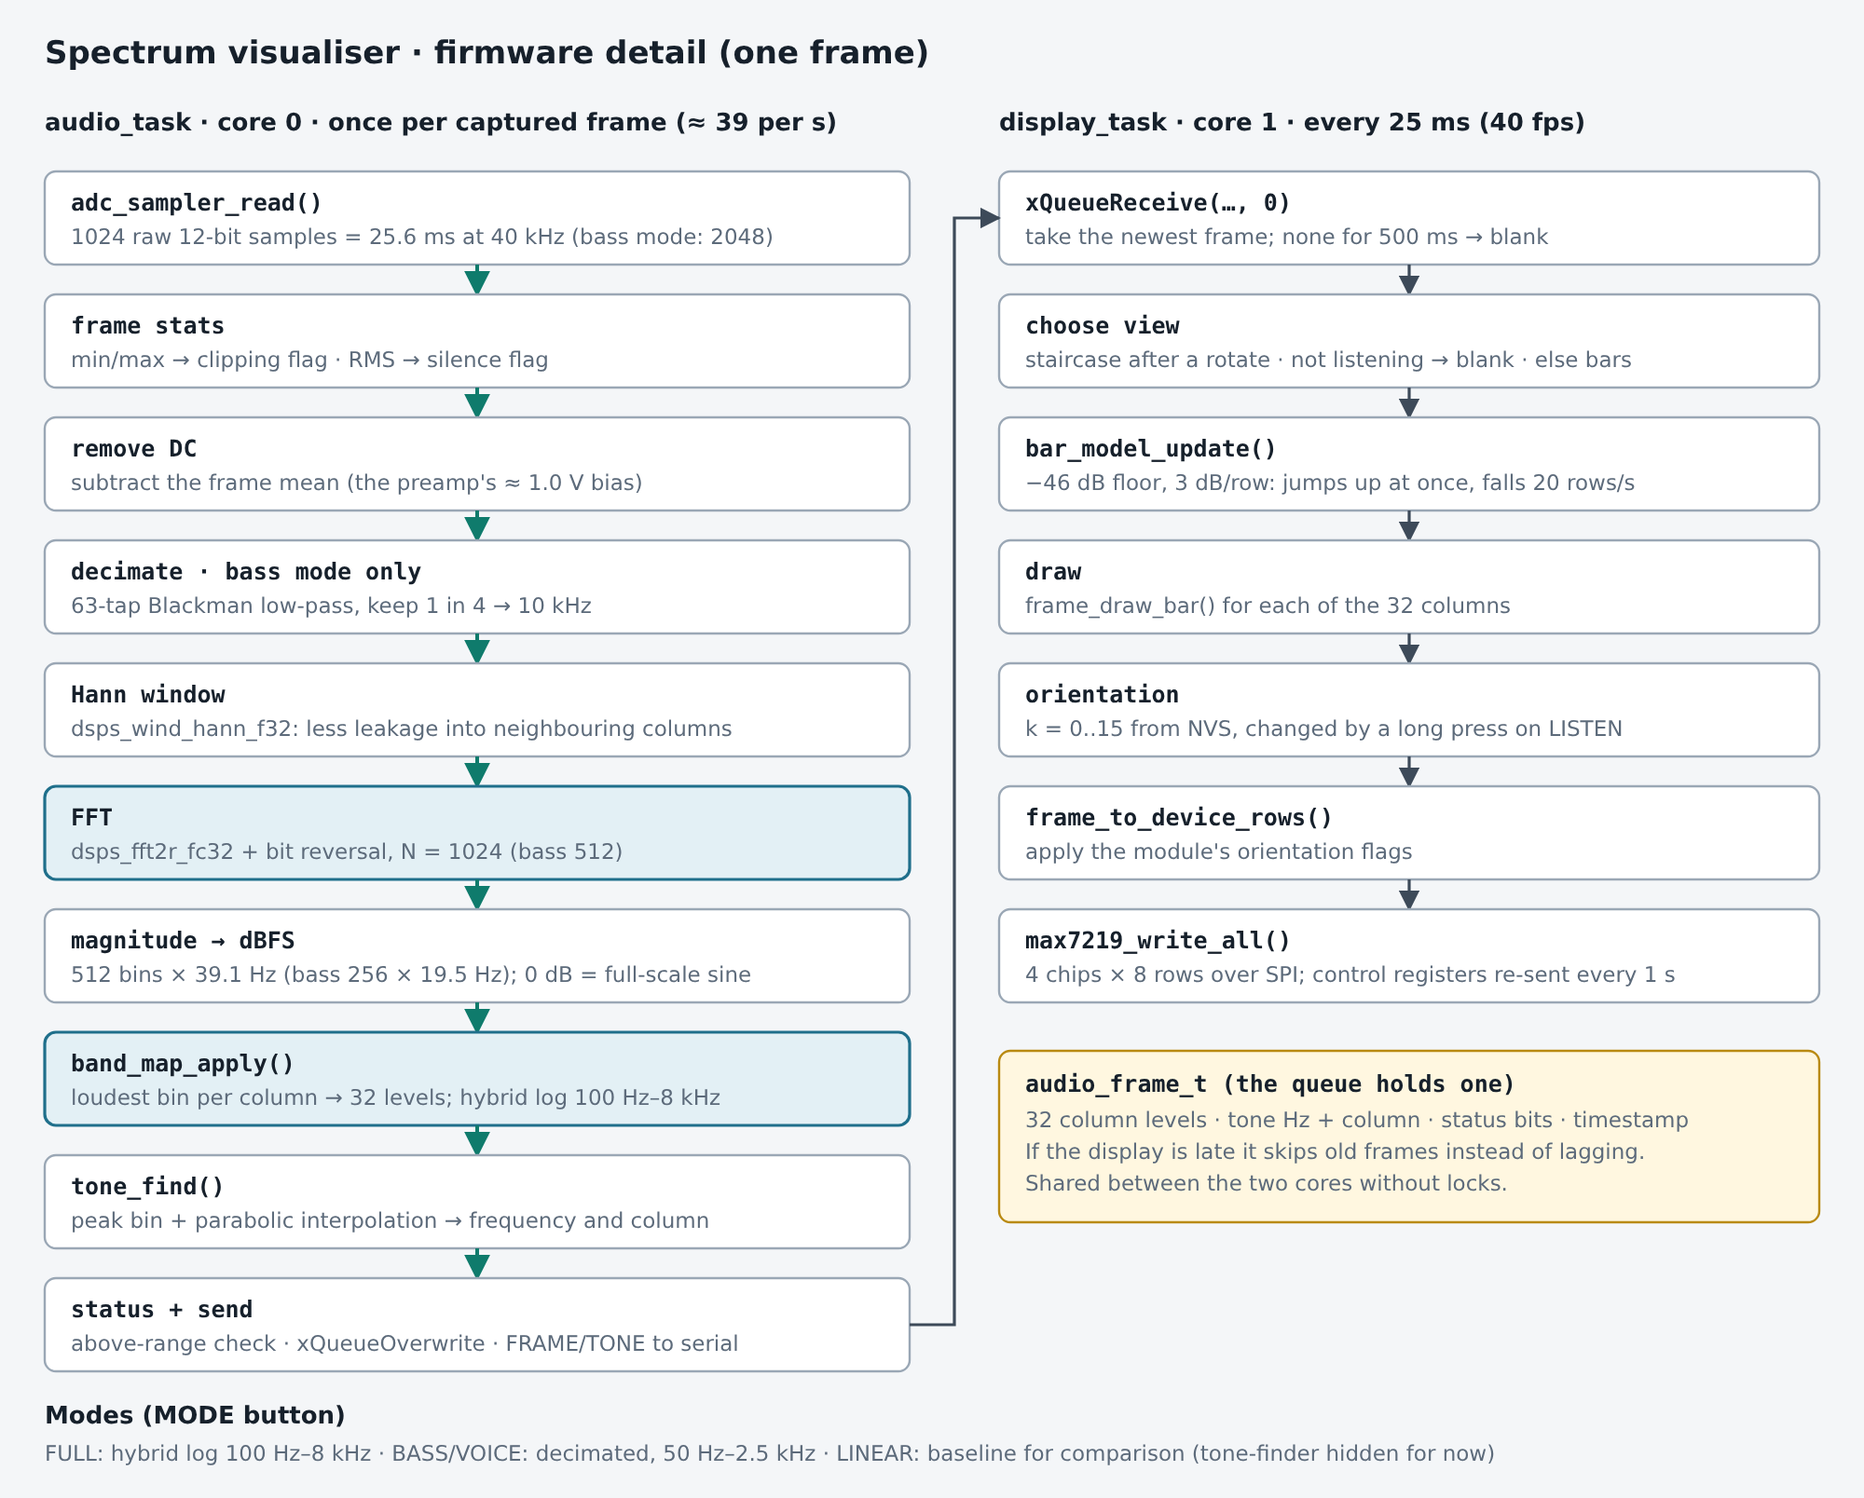
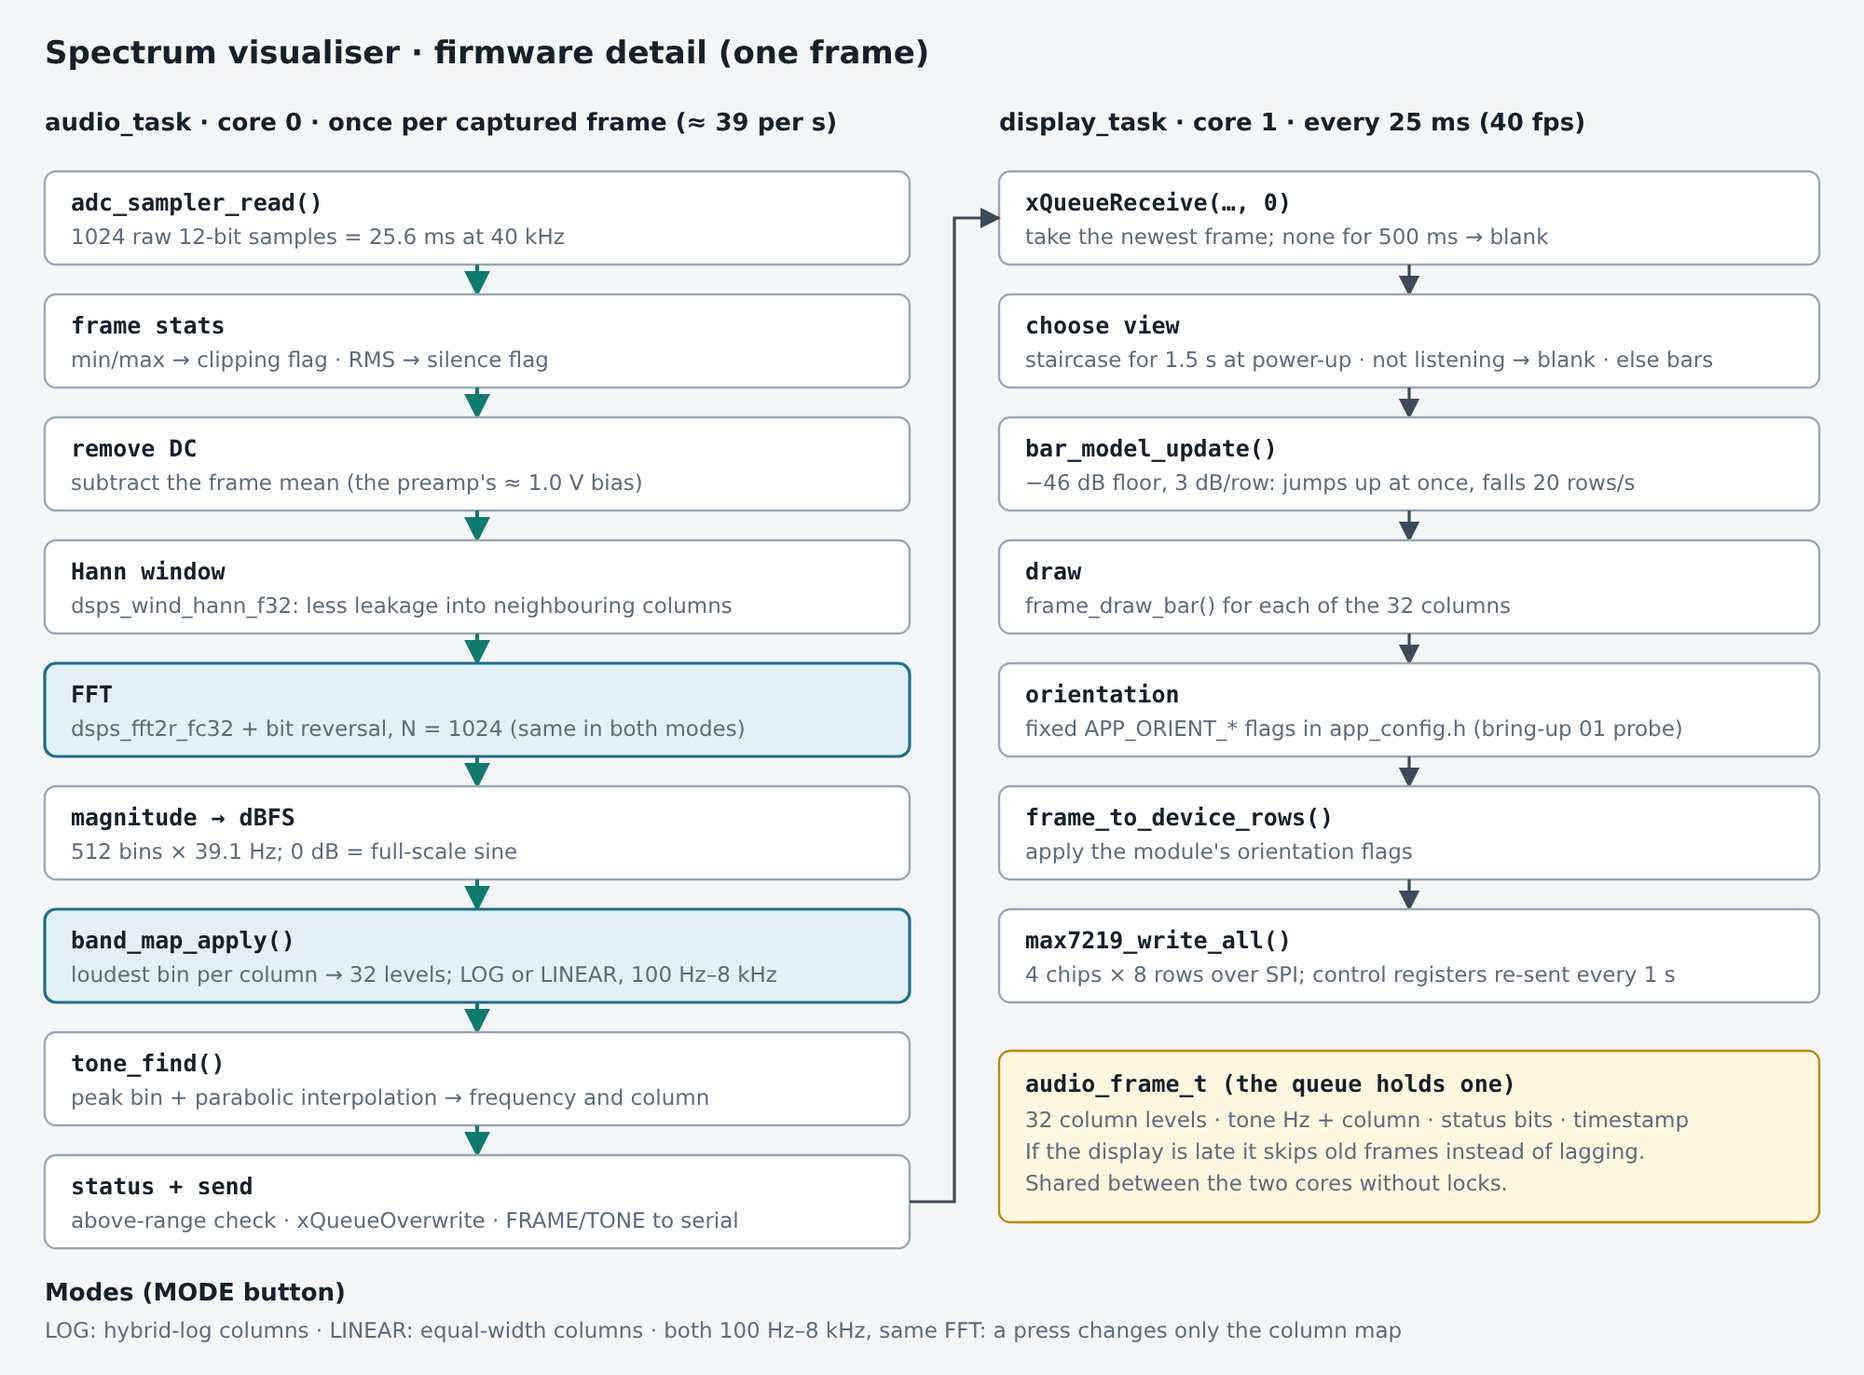
Docs and diagrams: two modes, fixed orientation, new button map
Brings the evidence trail in line with the firmware change (spec T7):
- PLAN decision log: rows for the probe, the orientation result with its
  evidence files, no NVS orientation, LOG/LINEAR, button map, NVS
  rename, removed modes and the boot staircase.
- LAB_TESTS: Session B controls paragraph, A1 probe result, B1/B3/B4/B5
  checklists and the values-to-measure table. Notes that the 30/10
  quiet-room log behind APP_FLOOR_DB was taken in bass/voice mode with
  the old NPN preamp, so B1 has to be redone.
- README controls, CLAUDE.md hardware note, CONTEXT log/progress.
- Diagrams: input lane (3 actions, request labels), display lane
  ("apply new brightness", fixed orientation), mode change only
  rebuilds the column map, fw-detail without the decimation step,
  button text in the wiring diagram. Re-rendered with Playwright at
  scale 2; PNGs whose SVG did not change were left as they were.

diff --git a/docs/diagrams/gen_diagrams.py b/docs/diagrams/gen_diagrams.py
@@ -191,8 +191,8 @@ def circuit():
     for y in (130, 170, 230, 270, 310):
         b.append(dot(640, y)); b.append(dot(780, y))
     # --- buttons
-    for y, name, desc in [(400, "SW1 · MODE", "short: mode · long: brightness"),
-                          (450, "SW2 · LISTEN", "stops / restarts sampling")]:
+    for y, name, desc in [(400, "SW1 · MODE", "short: log/linear · long: brightness"),
+                          (450, "SW2 · LISTEN", "short: stops / restarts sampling")]:
         b.append(L(640, y, 700, y, "w w-ink2"))
         b.append(dot(640, y))
         b.append(f'<circle cx="702" cy="{y}" r="2.5" class="pin"/>')
@@ -355,23 +355,22 @@ def fw_high():
 def fw_low():
     b = []
     audio = [
-        ("adc_sampler_read()", "1024 raw 12-bit samples = 25.6 ms at 40 kHz (bass mode: 2048)"),
+        ("adc_sampler_read()", "1024 raw 12-bit samples = 25.6 ms at 40 kHz"),
         ("frame stats", "min/max → clipping flag · RMS → silence flag"),
         ("remove DC", "subtract the frame mean (the preamp's ≈ 1.0 V bias)"),
-        ("decimate · bass mode only", "63-tap Blackman low-pass, keep 1 in 4 → 10 kHz"),
         ("Hann window", "dsps_wind_hann_f32: less leakage into neighbouring columns"),
-        ("FFT", "dsps_fft2r_fc32 + bit reversal, N = 1024 (bass 512)"),
-        ("magnitude → dBFS", "512 bins × 39.1 Hz (bass 256 × 19.5 Hz); 0 dB = full-scale sine"),
-        ("band_map_apply()", "loudest bin per column → 32 levels; hybrid log 100 Hz–8 kHz"),
+        ("FFT", "dsps_fft2r_fc32 + bit reversal, N = 1024 (same in both modes)"),
+        ("magnitude → dBFS", "512 bins × 39.1 Hz; 0 dB = full-scale sine"),
+        ("band_map_apply()", "loudest bin per column → 32 levels; LOG or LINEAR, 100 Hz–8 kHz"),
         ("tone_find()", "peak bin + parabolic interpolation → frequency and column"),
         ("status + send", "above-range check · xQueueOverwrite · FRAME/TONE to serial"),
     ]
     disp = [
         ("xQueueReceive(…, 0)", "take the newest frame; none for 500 ms → blank"),
-        ("choose view", "staircase after a rotate · not listening → blank · else bars"),
+        ("choose view", "staircase for 1.5 s at power-up · not listening → blank · else bars"),
         ("bar_model_update()", "−46 dB floor, 3 dB/row: jumps up at once, falls 20 rows/s"),
         ("draw", "frame_draw_bar() for each of the 32 columns"),
-        ("orientation", "k = 0..15 from NVS, changed by a long press on LISTEN"),
+        ("orientation", "fixed APP_ORIENT_* flags in app_config.h (bring-up 01 probe)"),
         ("frame_to_device_rows()", "apply the module's orientation flags"),
         ("max7219_write_all()", "4 chips × 8 rows over SPI; control registers re-sent every 1 s"),
     ]
@@ -391,7 +390,7 @@ def fw_low():
                            "sig" if x < 500 else "ink"))
         return top + (len(steps) - 1) * (h + gap)
 
-    last_a = column(24, 464, audio, acc_idx=(5, 7))
+    last_a = column(24, 464, audio, acc_idx=(4, 6))
     column(536, 440, disp)
     # queue connector: audio last -> display first
     ya = last_a + h / 2
@@ -403,9 +402,9 @@ def fw_low():
     b.append(T(550, yq + 41, "32 column levels · tone Hz + column · status bits · timestamp", "ts"))
     b.append(T(550, yq + 58, "If the display is late it skips old frames instead of lagging.", "ts"))
     b.append(T(550, yq + 75, "Shared between the two cores without locks.", "ts"))
-    ym = top + 10 * (h + gap) + 12
+    ym = top + 9 * (h + gap) + 12
     b.append(T(24, ym, "Modes (MODE button)", "tb2"))
-    b.append(T(24, ym + 20, "FULL: hybrid log 100 Hz–8 kHz  ·  BASS/VOICE: decimated, 50 Hz–2.5 kHz  ·  LINEAR: baseline for comparison  (tone-finder hidden for now)", "ts"))
+    b.append(T(24, ym + 20, "LOG: hybrid-log columns  ·  LINEAR: equal-width columns  ·  both 100 Hz–8 kHz, same FFT: a press changes only the column map", "ts"))
     return svg(1000, ym + 40, "Spectrum visualiser · firmware detail (one frame)", "".join(b))
 
 # ---------------------------------------------------------------- 1b. LM358 preamp schematics
@@ -664,7 +663,7 @@ def fw_flow():
     b.append(L(M, 310, M, 338, "w w-ink2", "ink")); b.append(dot(M, 326))
     fc_dec(b, M, 366, 160, 56, ["Mode", "changed?"])
     b.append(L(M + 80, 366, S - 52, 366, "w w-ink2", "ink")); b.append(T(M + 90, 359, "Yes", "lbl"))
-    fc_proc(b, S, 346, 104, 40, ["Set FFT size", "+ column map"])
+    fc_proc(b, S, 346, 104, 40, ["Rebuild the", "column map"])
     b.append(A(f"M{S} 386V414H{M+6}")); b.append(L(M, 394, M, 414, "w w-ink2")); b.append(T(M + 6, 408, "No", "lbl"))
     b.append(dot(M, 414)); b.append(L(M, 414, M, 426, "w w-ink2", "ink"))
     fc_dec(b, M, 454, 160, 56, ["Listening?"])
@@ -690,7 +689,7 @@ def fw_flow():
     M, S = 720, 902
     fc_proc(b, M, 270, 230, 40, ["Start SPI2 + 4 × MAX7219", "1 MHz, brightness from NVS"])
     b.append(L(M, 310, M, 346, "w w-ink2", "ink")); b.append(dot(M, 326))
-    fc_proc(b, M, 346, 230, 48, ["Wait for the 25 ms tick", "apply new brightness / rotation"])
+    fc_proc(b, M, 346, 230, 48, ["Wait for the 25 ms tick", "apply new brightness"])
     b.append(L(M, 394, M, 412, "w w-ink2", "ink"))
     fc_dec(b, M, 440, 160, 56, ["New frame", "in queue?"])
     b.append(L(M + 80, 440, S - 52, 440, "w w-ink2", "ink")); b.append(T(M + 90, 433, "No", "lbl"))
@@ -699,7 +698,7 @@ def fw_flow():
     b.append(dot(M, 494)); b.append(L(M, 494, M, 514, "w w-ink2", "ink"))
     fc_proc(b, M, 514, 230, 48, ["Bar rows = (dB − floor) ÷ 3 dB", "jump up at once, fall 20 rows/s"])
     b.append(L(M, 562, M, 582, "w w-ink2", "ink"))
-    fc_proc(b, M, 582, 230, 40, ["Draw 32 bars", "then apply the rotation"])
+    fc_proc(b, M, 582, 230, 40, ["Draw 32 bars", "then apply the fixed orientation"])
     b.append(L(M, 622, M, 642, "w w-ink2", "ink"))
     fc_io(b, M, 642, 230, 40, ["Send 8 rows × 4 chips", "over SPI"])
     b.append(A(f"M{M} 682V700H966V326H{M+6}"))
@@ -716,10 +715,10 @@ def fw_flow():
     fc_dec(b, 470, cy, 120, 60, ["Pressed?"])
     b.append(L(530, cy, 560, cy, "w w-ink2", "ink")); b.append(T(536, cy - 7, "Yes", "lbl"))
     b.append(R(560, cy - 52, 240, 104, "bx", 4))
-    acts = [("MODE short", "next mode"), ("MODE long", "next brightness"),
-            ("LISTEN short", "stop / start"), ("LISTEN long", "rotate display")]
+    acts = [("MODE short", "LOG ↔ LINEAR"), ("MODE long", "next brightness"),
+            ("LISTEN short", "stop / start")]
     for i, (k, v) in enumerate(acts):
-        yy = cy - 28 + i * 20
+        yy = cy - 18 + i * 20   # 3 rows, centred in the box
         b.append(T(574, yy, k, "tm")); b.append(T(676, yy, "→ " + v, "ts"))
     b.append(L(800, cy, 822, cy, "w w-ink2", "ink"))
     fc_proc(b, 890, cy - 22, 136, 44, ["Save to NVS", "kept after power-off"])
@@ -729,7 +728,7 @@ def fw_flow():
     b.append(P(f"M610 {cy-52}V786H250V776", "w w-ink2 dash", "ink"))
     b.append(T(618, 820, "mode, listening", "ts"))
     b.append(P(f"M760 {cy-52}V716", "w w-ink2 dash", "ink"))
-    b.append(T(768, 760, "brightness, rotation", "ts"))
+    b.append(T(768, 760, "brightness", "ts"))
     # legend
     ly = 1000
     b.append(T(24, ly, "Shapes:", "tb2"))

diff --git a/docs/CONTEXT.md b/docs/CONTEXT.md
@@ -49,13 +49,14 @@ Kept by Claude so any new chat or Claude Code session can pick up where we left 
 - [x] Repo skeleton: headers, CMake files, empty `.c` stubs, bring-up projects, host-test stubs (29/10). Claude built it with ESP-IDF v6.0.3: main project + both bring-ups compile with no warnings; `host_tests` make passes. (esp-dsp was taken from GitHub for that check because the component registry was blocked there — Joe's first build will download it from the registry and create `dependencies.lock`; commit that file.)
 - [x] Push to GitHub
 - [x] Bring-up 01 code: `max7219` driver, all of `frame_gfx` (+ host tests), bring-up program (29/10). Builds clean.
-- [ ] Bring-up 01 on hardware (optional now: orientation can be set with LISTEN long press on the main firmware)
+- [x] Bring-up 01 probe on hardware (05/11): orientation R1 FX0 FY1 T0, fixed in `app_config.h`. Soak at the new flags still to do
 - [x] Bring-up 02 code: `adc_sampler` + rate sweep / raw stream (29/10, `81c16af`). Builds clean.
 - [ ] Bring-up 02 on hardware: rate sweep, raw logs at each gain
 - [x] Pure components + laptop tests: `band_map`, `bar_model`, `tone_finder` (29/10, `fdee253`)
 - [x] `spectrum` (esp-dsp): DC removal, decimation filter, Hann, dBFS (29/10, `f92bcea`). Not testable off-board.
 - [x] Main app: plumbing (`a8ac360`), audio_task (`517849f`), display_task (`a143fb9`), input_task + main — full firmware builds (29/10)
 - [x] Python tools for evidence (`tools/`, checked on synthetic logs) (29/10)
+- [x] Display simplified (05/11, spec `docs/specs/2026-11-05_display_simplify.md`): two modes LOG/LINEAR, fixed orientation, bars only
 - [ ] Core features → flagship → test plan → demo
 
 ## Open questions
@@ -78,3 +79,4 @@ Kept by Claude so any new chat or Claude Code session can pick up where we left 
 - **5 Nov:** Preamp changed to an LM358 (NPN stage too weak). New schematics `docs/diagrams/preamp-1.png` (×101) and `preamp-2.png` (×1100), each with DC check values and chip pins; system wiring, hardware diagrams and bringup/README parts table updated. Added a software flowchart (`fw-flow.png`); fw-detail updated to the plain-bars display. Joe is rebuilding the preamp neatly to rule out wiring faults. Next: DC check (pin 1 ≈ 0.95 V), new quiet-room log → re-set `APP_FLOOR_DB`, confirm orientation k for the default.
 - **5 Nov (later):** LM358 preamp works and responds to sound. The display is still confusing: 16 orientations on LISTEN, a wrong one saved in NVS, and the bass/linear modes look random. Wrote `docs/specs/2026-11-05_display_simplify.md` for Claude Code: two modes (LOG and LINEAR, MODE short press; brightness on long press), orientation found with a raw-register probe and fixed at compile time, LISTEN = stop/start, NVS mode + brightness. Next: Claude Code does T1 (probe), Joe runs it, then T2–T8.
 - **5 Nov (T1 done):** Bring-up 01 step 3 is now a 4-LED raw-register probe (P1 origin dev0/reg0/bit0, P2 +bit7, P3 +reg7, P4 +dev1; 5 s each, 3 rounds, then the soak). Answer → flags table and sanity checks in `bringup/README.md`; new host test checks the table against `frame_to_device_rows()` for all 16 flag sets. Next: Joe runs the probe and reports the four answers → T2; meanwhile T3–T6.
+- **5 Nov (T2–T7 done):** Probe answers (wire end = right): O top-right of the rightmost module, P2 left of O, P3 below O, P4 next module left → `REVERSE_DEVICES` 1, `FLIP_X` 0, `FLIP_Y` 1, `TRANSPOSE` 0 (fixed in `app_config.h`, no button/NVS). Firmware now has two modes, LOG (0) and LINEAR (3), same FFT and range; MODE short toggles, MODE long = brightness, LISTEN short = stop/start, LISTEN long = nothing. NVS namespace `sv2` (mode + brightness). Bars only; bass/voice + tone-finder display removed from `main/`. 1.5 s boot staircase. PLAN decision log, LAB_TESTS, README, CLAUDE.md and diagrams (fw-flow, fw-detail, circuit) updated. Found: the 30/10 quiet-room log that set `APP_FLOOR_DB` was in bass/voice mode with the old NPN preamp, so B1 must be redone. Next: Joe flashes the main firmware, checks the boot staircase and buttons, then B1 quiet-room log → `APP_FLOOR_DB`, then the LOG vs LINEAR logs/video.

diff --git a/docs/PLAN.md b/docs/PLAN.md
@@ -260,6 +260,15 @@ Session 1–2 rebuild Aidan's approach on our hardware as a measured baseline; e
 | 29/10 | Audio task waits 10 ms after an ADC read error; firmware logs column edges (Hz) at boot and on every mode change | — | No busy-loop if the ADC fails; the column table for R2 tests uses the real measured sample rate |
 | 29/10 | Electrical input circuit: low-pass capacitor 2.2 nF, not 15 nF (f_c ≈ 12 kHz) | 15 nF (first draft) | Review caught that the bias divider's 5 kΩ adds to the 1 kΩ series resistor: 15 nF would have cut off at ≈ 1.8 kHz |
 | 05/11 | Mic preamp: LM358 non-inverting, ×101 (one stage), optional second stage ×11; on the filtered 3.3 V rail | One-NPN stage (×35–50); LM358 on 5 V | NPN stage gave weak bars. Op-amp gain is set by two resistors, not the transistor's β. On 3.3 V the output can't exceed ≈ 1.8 V, so GPIO 1 is safe |
+| 05/11 | **Display simplified** (spec `docs/specs/2026-11-05_display_simplify.md`, Joe's request): | | |
+| 05/11 | Orientation found by a **raw-register probe** (4 single LEDs), then fixed in `app_config.h` | Keep stepping through 16 orientations by eye | Three single-LED photos fully decide the 4 flags, with no guessing. The result is evidence for the report and can't drift. Host test checks the probe table against `frame_to_device_rows()` for all 16 flag sets |
+| 05/11 | Orientation result: `REVERSE_DEVICES` 1, `FLIP_X` 0, `FLIP_Y` 1, `TRANSPOSE` 0 | Transpose only (30/10 guess) | `2026-11-05_A1_probe.txt` + photos `..._A1_Probe_P3/P4.jpeg`, strip horizontal with the wire end on the right: O top-right of the rightmost module, P2 left of O, P3 below O, P4 in the next module left. Both sanity checks pass. Explains the 5 Nov "lines across each module": the old default transposed rows and columns |
+| 05/11 | Orientation **not** stored in NVS; no button for it | LISTEN long press + NVS (30/10) | A wrong saved value kept coming back after reflashing. The mounting never changes, so a compile-time constant is enough |
+| 05/11 | **Two display modes: LOG and LINEAR**, same range (100 Hz – 8 kHz) and FFT (1024); FFT set up once, a mode change only rebuilds the column map | Full / bass / linear (+ tone finder) | Joe's choice. Bass/voice changed the FFT and the range, so it looked random. With the same range and only the axis changing, a press shows exactly what the log axis does: the log-vs-linear decision shown live in the demo. Enum values kept (LOG = 0, LINEAR = 3) so old FRAME logs mean the same |
+| 05/11 | MODE short = toggle the mode, MODE long = brightness; LISTEN short = stop/start, LISTEN long = nothing | Brightness on the short press | The mode is what the demo uses; brightness is set once |
+| 05/11 | NVS namespace renamed `spectrum` → `sv2`; an invalid saved mode loads as LOG | Erase flash by hand | Old `mode` = 2 (bass) and `orient` = 9 values on Joe's board can't leak back in |
+| 05/11 | Bass/voice mode and tone-finder display removed from `main/`; `APP_SHOW_*` flags removed | Keep behind flags | Dead paths behind flags were part of the confusion. `tone_finder` and `TONE` lines stay (accuracy tests); `frame_gfx` keeps its text/peak/status functions and tests; the bass constants and spectrum's decimation stay, unused |
+| 05/11 | Boot check: staircase for 1.5 s at every power-up | No staircase (30/10) | With a fixed orientation this is the one-glance check that the flags are right after every flash |
 | | | | |
 
 ## Sources

diff --git a/README.md b/README.md
@@ -13,7 +13,7 @@ An electret microphone with a one-transistor preamp feeds an ESP32-S3; the firmw
 | Freenove ESP32-S3-WROOM | camera ribbon unplugged |
 | Electret capsule + LM358 preamp | gain ×101 (one stage) or ×1100 (two), output ≈ 1.0 V DC + audio, no AGC; schematics in `docs/diagrams/preamp-1.png` / `preamp-2.png` |
 | 4-in-1 MAX7219 LED matrix (32 × 8) | 5 V |
-| Push buttons × 2 | mode, listen on/off |
+| Push buttons × 2 | MODE: short = LOG ↔ LINEAR, long = brightness; LISTEN: short = stop/start |
 
 Pins: [`main/app_config.h`](main/app_config.h). Wiring per part: [`bringup/README.md`](bringup/README.md).
 
@@ -28,7 +28,7 @@ spectrum_visualiser/
 │   ├── adc_sampler/     ESP32-S3 continuous (DMA) ADC
 │   ├── spectrum/        DC removal, decimation, window, FFT (esp-dsp)
 │   ├── band_map/        FFT bins -> 32 columns (linear / hybrid log)   [pure C]
-│   ├── bar_model/       dB -> bar height, smoothing, peak dots         [pure C]
+│   ├── bar_model/       dB -> bar height, smoothing                     [pure C]
 │   ├── tone_finder/     strongest frequency in Hz                      [pure C]
 │   ├── frame_gfx/       32x8 drawing, text, matrix orientation         [pure C]
 │   └── button/          debounced buttons

diff --git a/CLAUDE.md b/CLAUDE.md
@@ -57,4 +57,4 @@ Environment: Debian 13, ESP-IDF v6, VS Code. Board enumerates as `/dev/ttyACM0`.
 - Mic is a bare electret capsule with an LM358 preamp on 3.3 V (no MAX9814, no AGC). Bar height is true loudness; don't add software auto-gain (it would hide that).
 - MAX7219 at 5 V with 3.3 V logic is below spec; watch for random pixels.
 - The MAX7219 row scan (~700 Hz) couples into the mic preamp via shared supply/ground: tones at multiples of ~700 Hz in a quiet room are interference, not sound (see `bringup/README.md`).
-- Display orientation can be changed on the board (LISTEN long press, saved in NVS); `APP_ORIENT_*` is only the default.
+- Display orientation is fixed in `APP_ORIENT_*`, found with the bring-up 01 probe (05/11: strip horizontal, wire end on the right).
